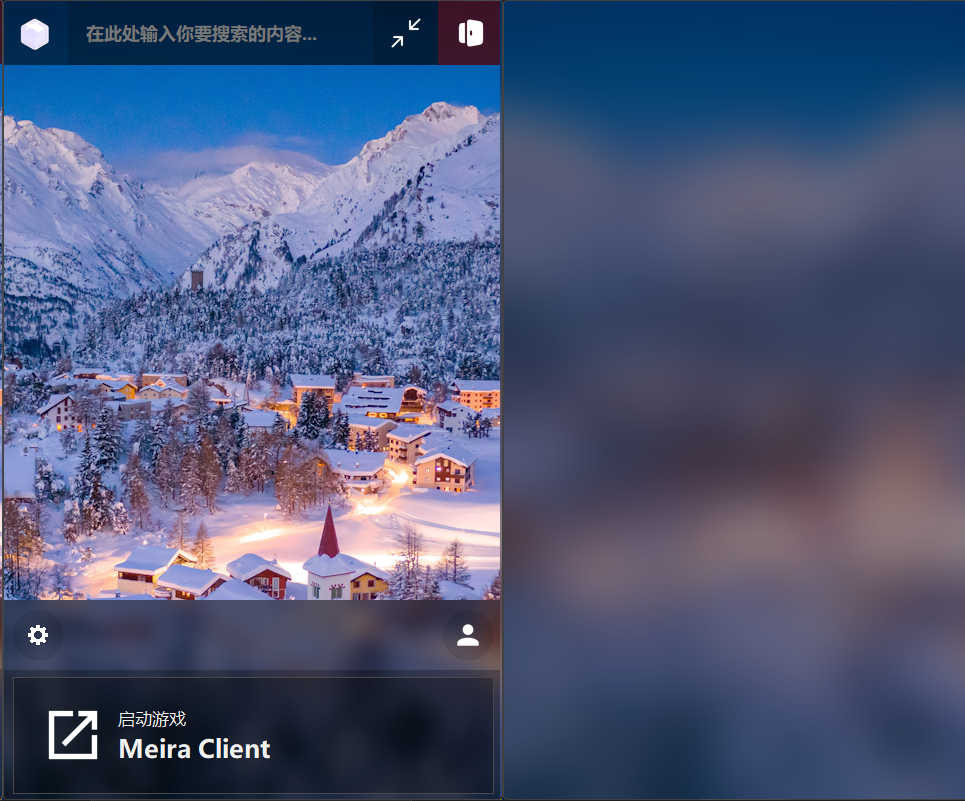
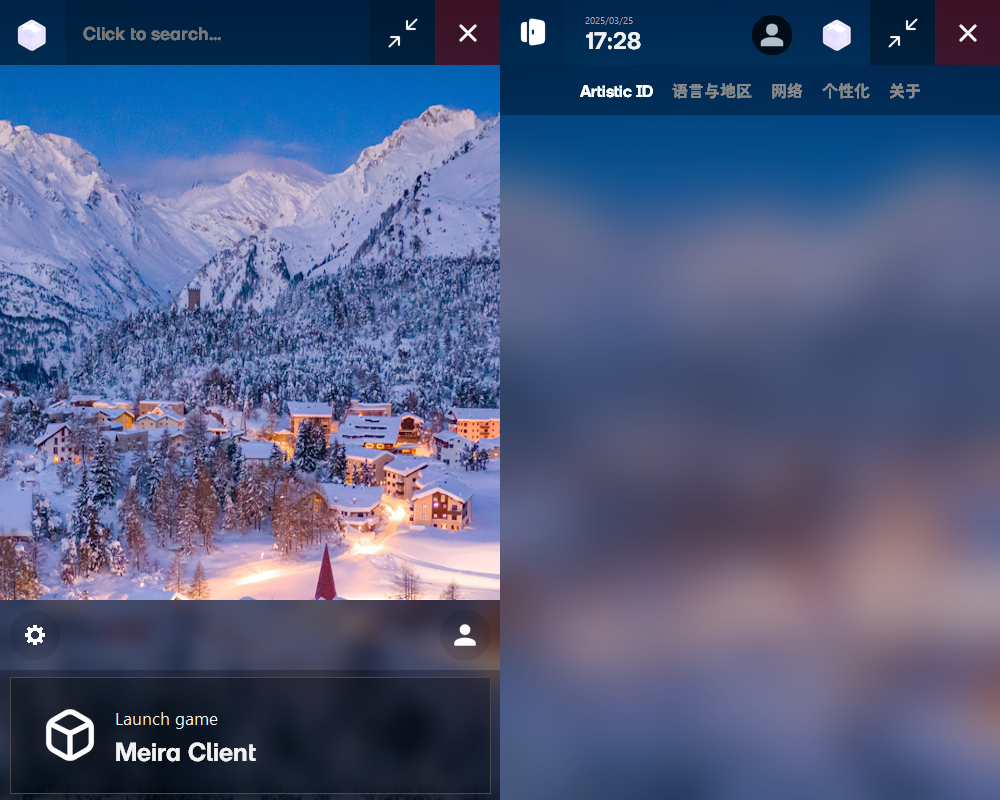
bug fix & doc update

diff --git a/ark.py b/ark.py
@@ -211,8 +211,8 @@ def updateFont():
 
     if locale == 'en':
         FONT_FAMILY = 'Segoe UI'
-        FONT_FAMILY_BOLD = f'{FONT_FAMILY} Bold'
-        FONT_FAMILY_LIGHT = f'{FONT_FAMILY} Light'
+        FONT_FAMILY_BOLD = f'源流黑体 CJK'
+        FONT_FAMILY_LIGHT = f'源流黑体 CJK'
     elif locale == 'ug':
         FONT_FAMILY = 'Segoe UI'
         FONT_FAMILY_BOLD = f'{FONT_FAMILY} Bold'
@@ -621,7 +621,7 @@ def mainPage():
 
     launch              = maliang.Button(bottomLaunchMask, (0, 0), size=(480, 116))
     launchIcon          = maliang.Image(launch, (bottomLMaskHEIGHT // 2 - 5, bottomLMaskHEIGHT // 2 - 7),image=maliang.PhotoImage(getImage('icon_launch').resize((80, 80), 1)), anchor='center')
-    launchDesc          = maliang.Text(launch, position=(105, bottomLMaskHEIGHT // 2 - 35), text='启动游戏', family=FONT_FAMILY,fontsize=17)
+    launchDesc          = maliang.Text(launch, position=(105, bottomLMaskHEIGHT // 2 - 35), text='Launch game', family=FONT_FAMILY,fontsize=17)
     launchTitle         = maliang.Text(launch, position=(105, bottomLMaskHEIGHT // 2 - 10), text='Meira Client', family=FONT_FAMILY_BOLD, fontsize=25)
 
     launch.style.set(fg=('', '', ''), bg=('', '', ''), ol=('#4C4849', '#BBBBBB'))
@@ -636,8 +636,6 @@ def mainPage():
 def settingsPage():
     global cv
     cv = createPage()
-    cv.bind("<Escape>", lambda event: changeWindow(mainPage))
-
 
     backgroundImage = mergeImage(makeImageBlur(getImage(_BACKGROUND, 'background'), radius=25),
                                  makeImageMask((500, 800), (0, 0, 0, 64)))
